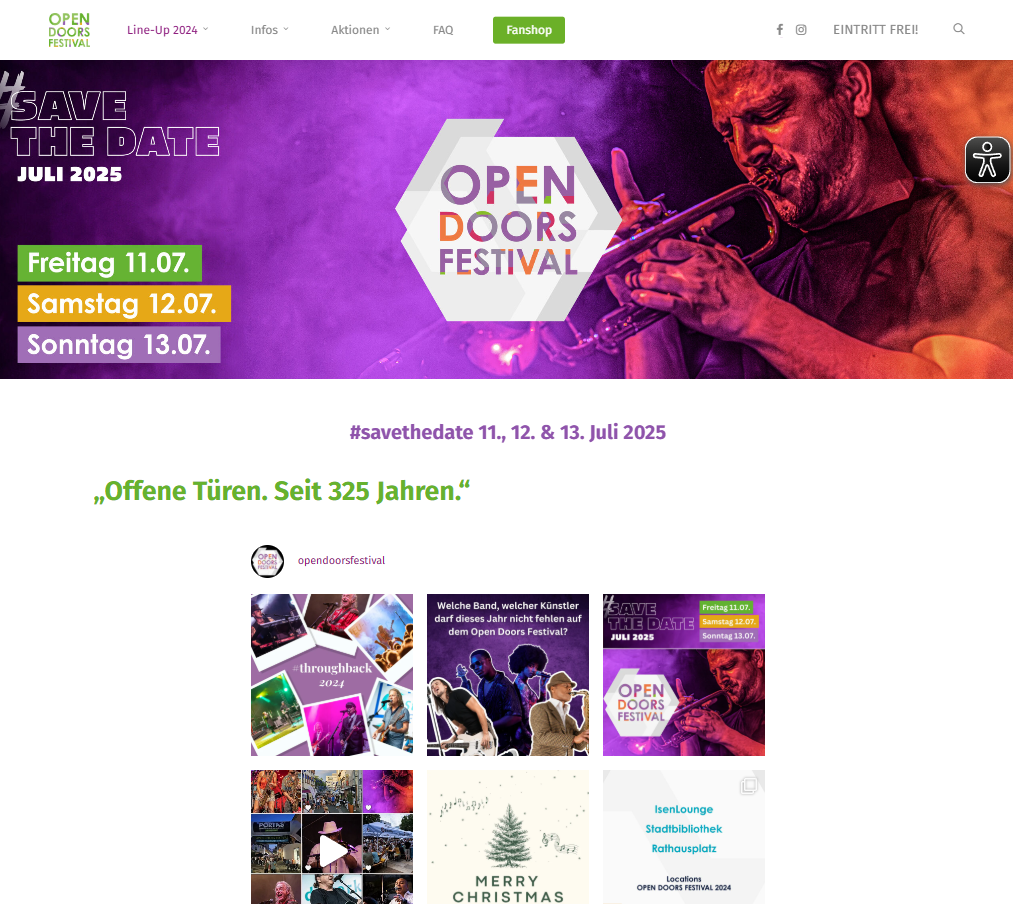
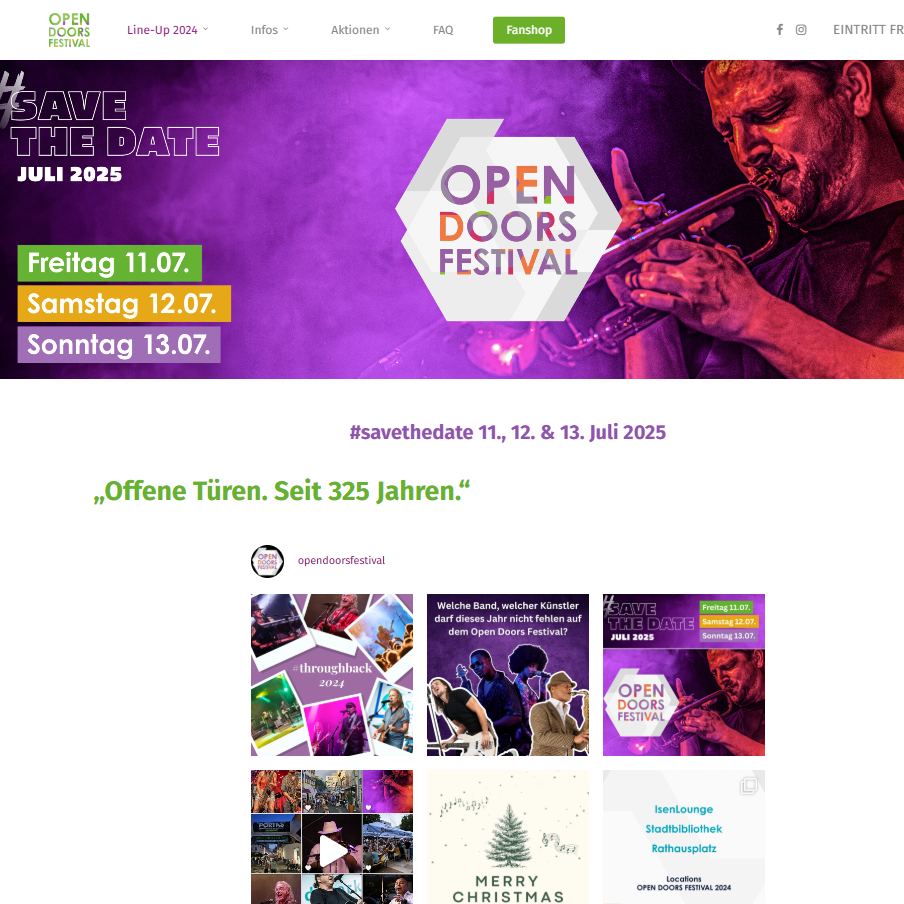
paddings gefixt und bilder überarbeitet

diff --git a/components/header.html b/components/header.html
@@ -31,14 +31,17 @@
 </nav>
 
 <script>
-    $(document).ready(function() {
+    $(document).ready(function () {
         var currentPage = window.location.pathname.split("/").pop() || 'index.html';
-        $('.navigation-bar a').each(function() {
-            if ($(this).attr('href') === currentPage) {
-                $(this).addClass('active').attr('aria-current', 'page');
-            } else {
-                $(this).removeClass('active').removeAttr('aria-current');
-            }
-        });
+        function updateActiveLinks() {
+            $('.navigation-bar a, .burger-menu .links-container a').each(function () {
+                if ($(this).attr('href') === currentPage) {
+                    $(this).addClass('active').attr('aria-current', 'page');
+                } else {
+                    $(this).removeClass('active').removeAttr('aria-current');
+                }
+            });
+        }
+        updateActiveLinks();
     });
 </script>

diff --git a/styles.css b/styles.css
@@ -1,4 +1,4 @@
-*{
+* {
     box-sizing: border-box;
 }
 
@@ -471,8 +471,8 @@ footer p {
 progress {
     appearance: none;
     width: 50%;
-    height: 8px; 
-    border-radius: 10px; 
+    height: 8px;
+    border-radius: 10px;
     background-color: #333;
     overflow: hidden;
 }
@@ -483,7 +483,7 @@ progress::-webkit-progress-bar {
 }
 
 progress::-webkit-progress-value {
-    background-color: rgb(220, 217, 235); 
+    background-color: rgb(220, 217, 235);
     border-radius: 10px;
 }
 
@@ -617,7 +617,7 @@ progress::-moz-progress-bar {
     }
 
     .kachel-zu-kontakt {
-        padding: 2
+        padding: 20% 5%;
     }
 
 }
